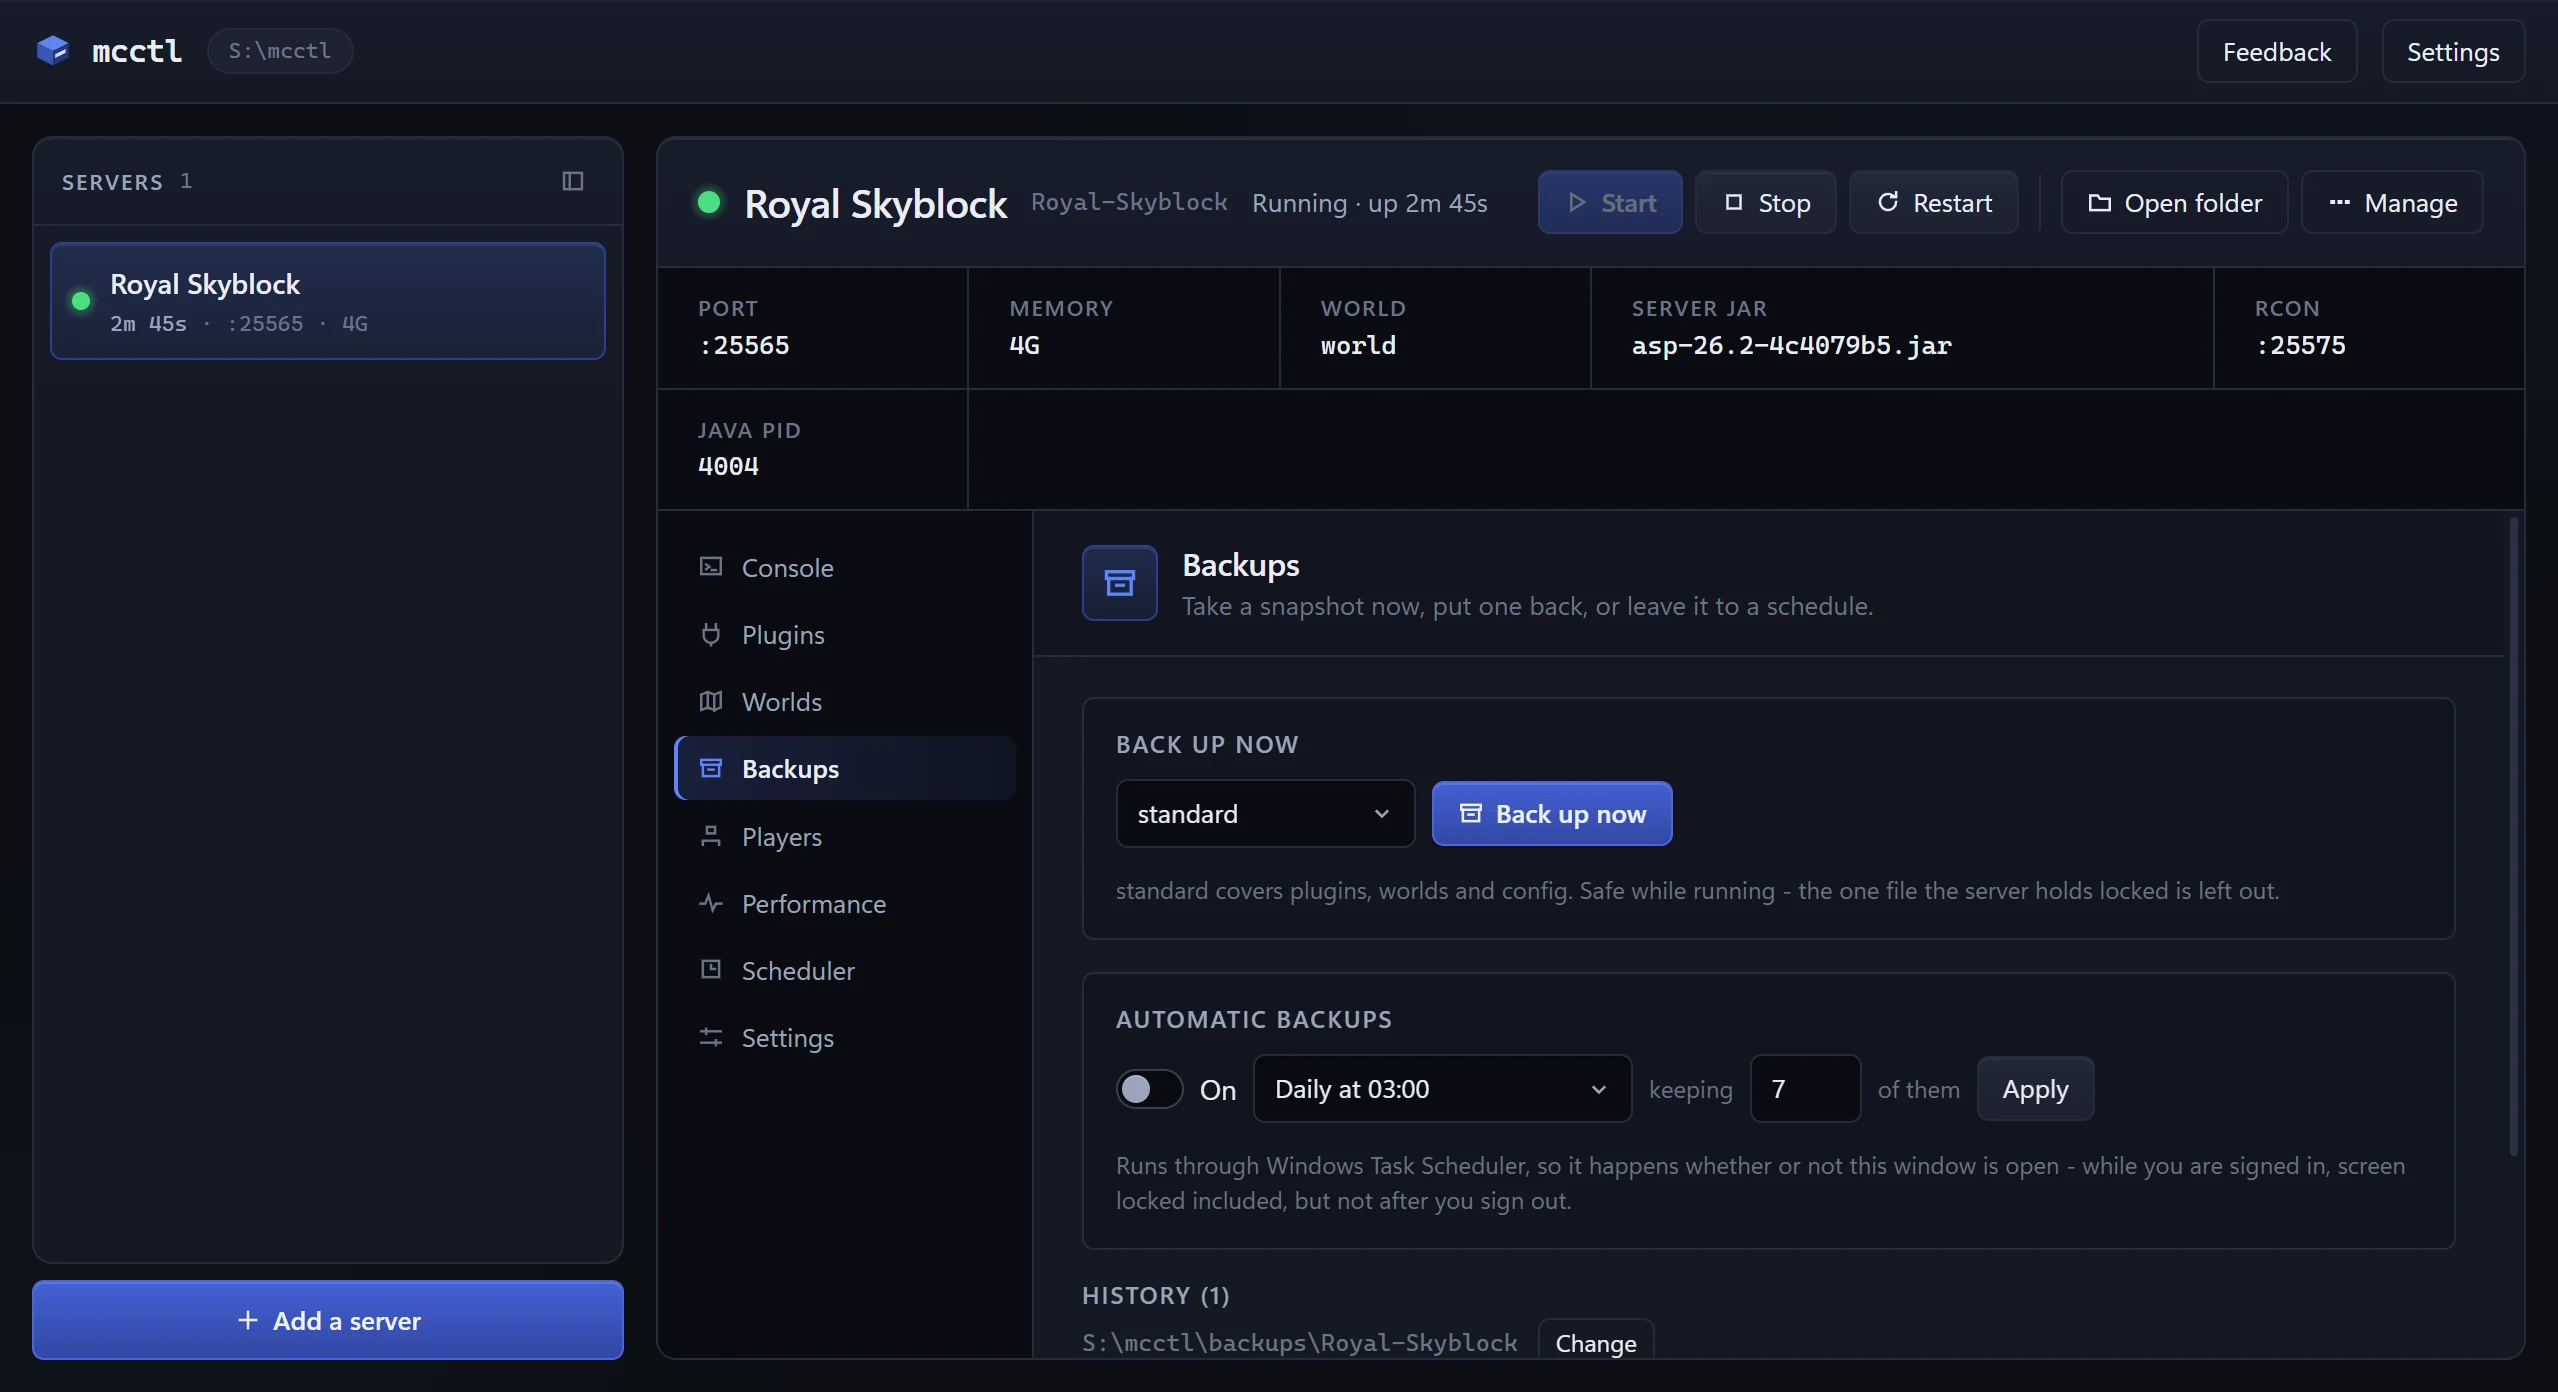
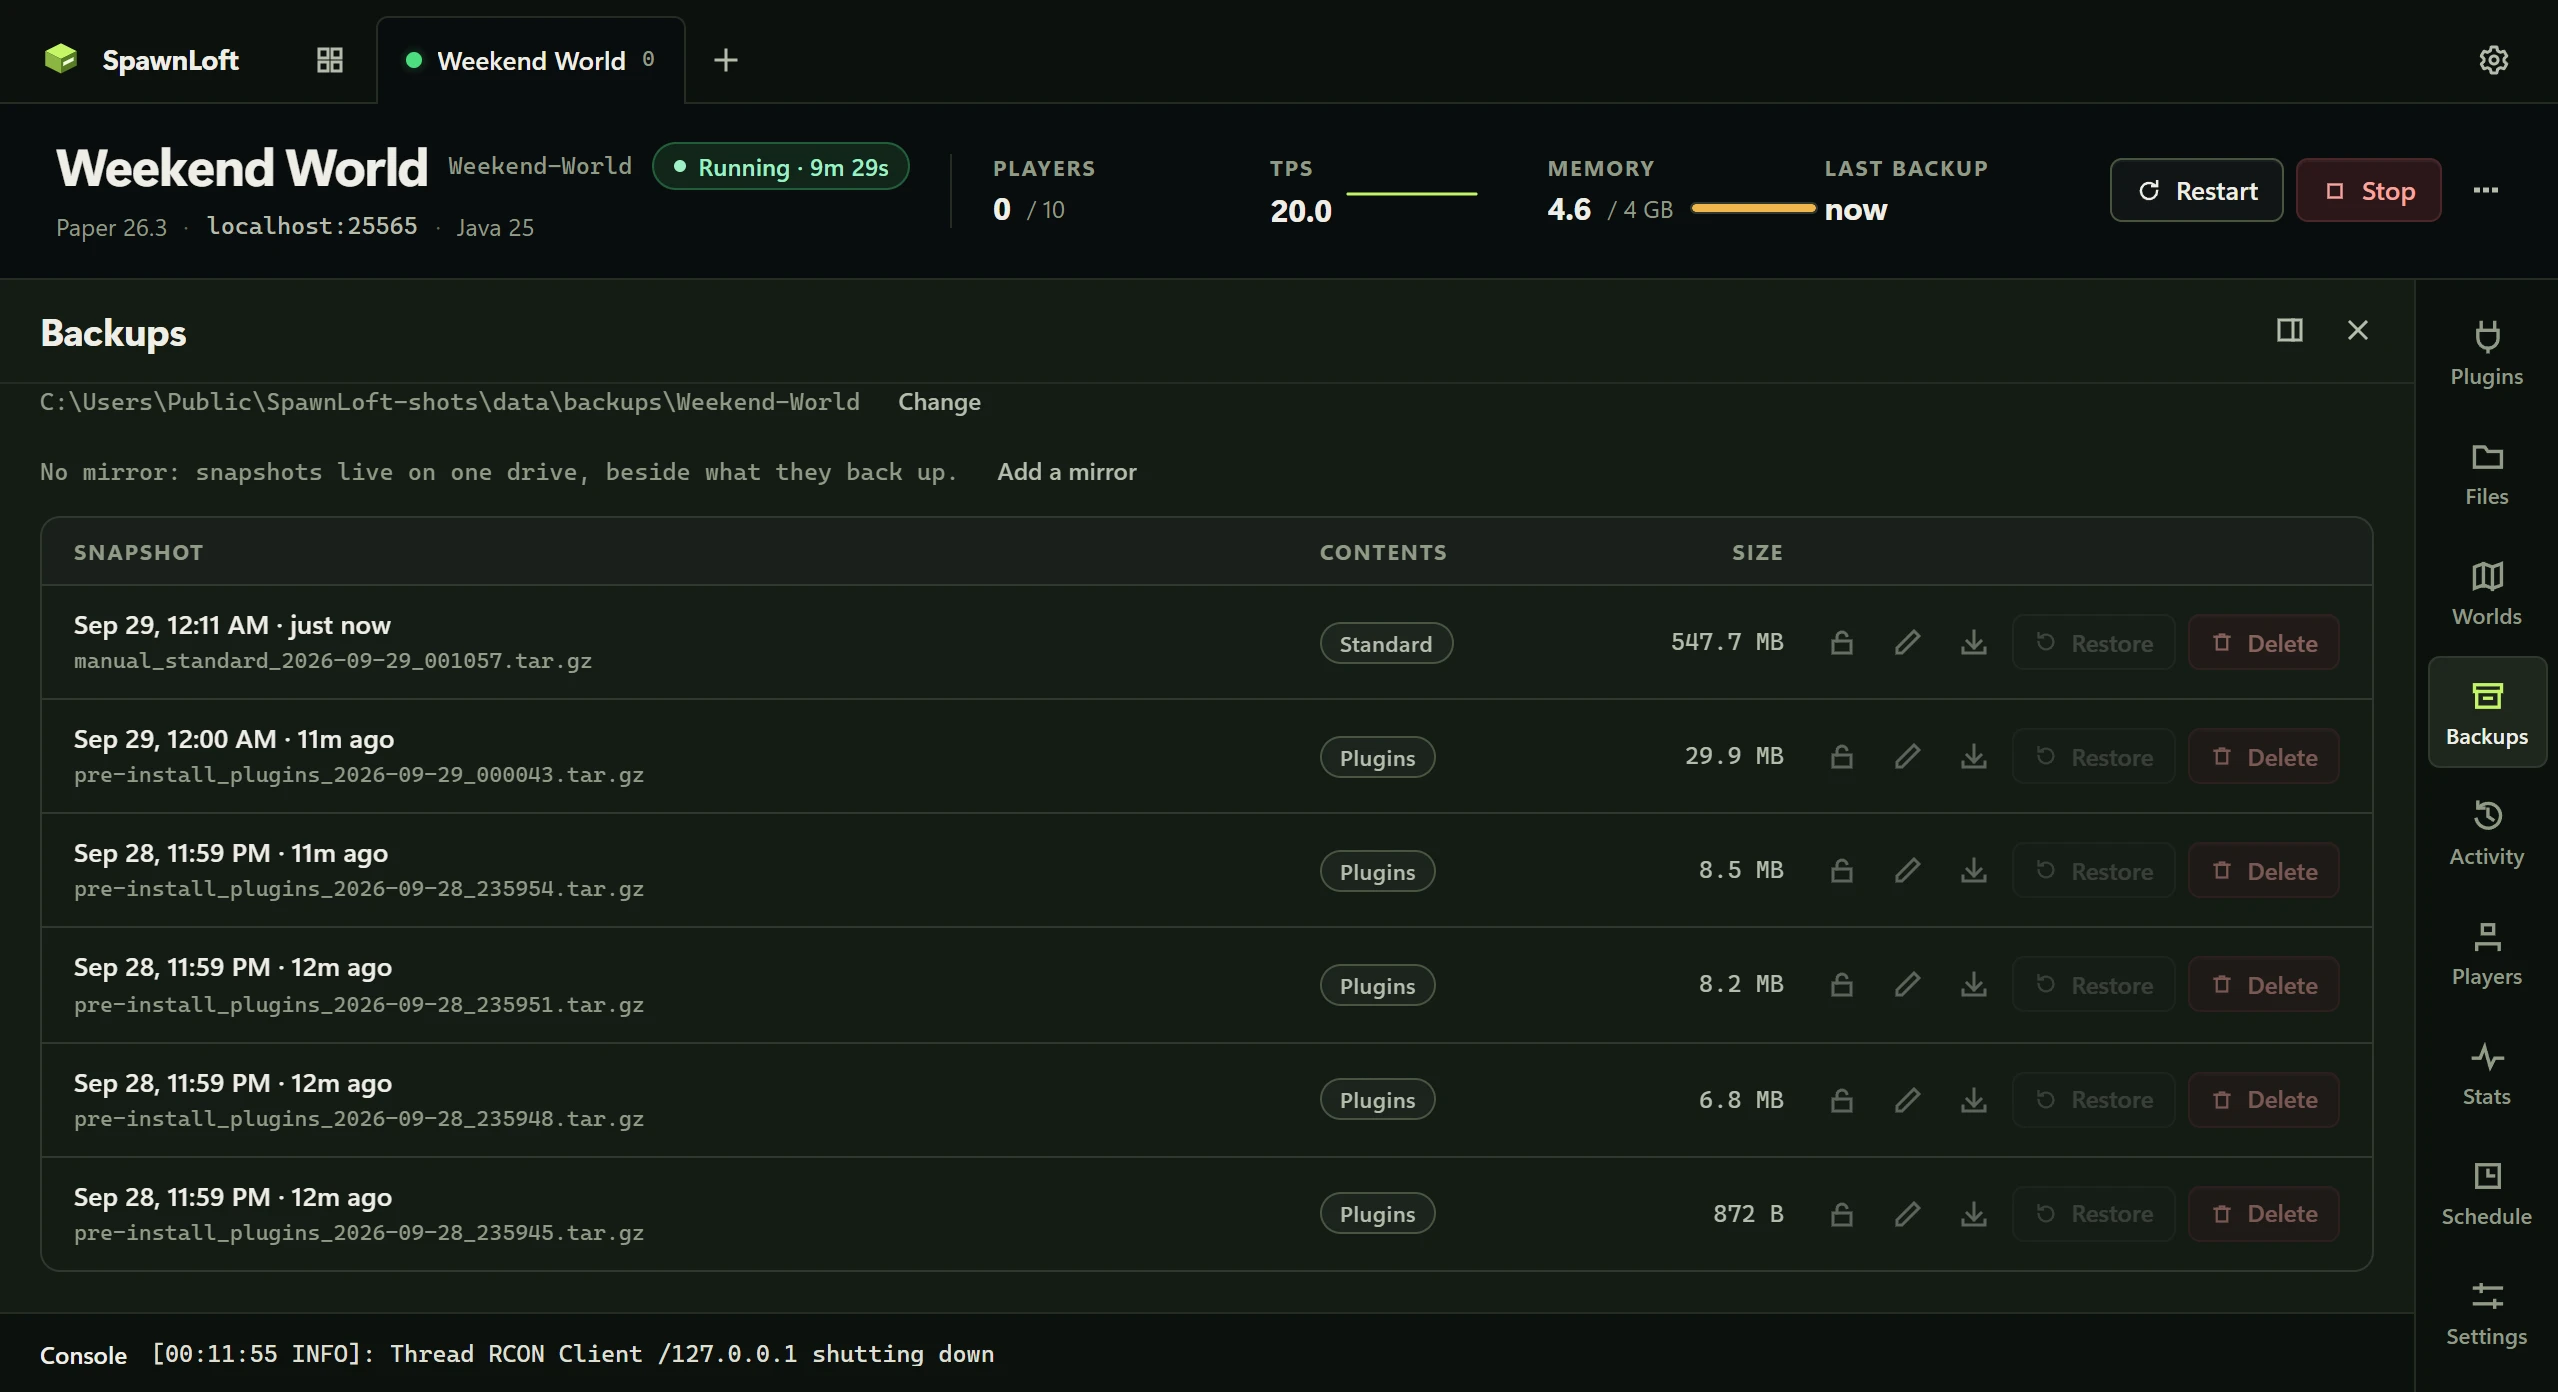
fix: retake the landing-page panel screenshots from the current app (#14)
The four product-tour screenshots are now the current SpawnLoft panel, at the same size and file names. Removes the ten old-layout PNGs and adds tools/screenshots to retake them.

diff --git a/tools/screenshots/README.md b/tools/screenshots/README.md
@@ -1,0 +1,56 @@
+# The landing-page panel screenshots
+
+`public/img/tabs/console.webp`, `plugins.webp`, `backups.webp` and `performance.webp` are the four
+captures in the "Meet your new control room" section, taken from the real SpawnLoft panel at
+2558x1392 (a 1279x696 window at 2x, the size `ProductExplorer.vue` expects). Re-take them when the
+panel's look changes.
+
+Nothing here needs a package install. It needs Node 22, a Chromium (Chrome preferred), and a
+checkout of the SpawnLoft app to run the panel from.
+
+1. Make a throwaway data root, with a neutral path (the backups screen shows it, and your username
+   is in the default), and the SpawnLoft theme:
+
+   ```bash
+   R=C:/Users/Public/SpawnLoft-shots     # anywhere without your name in it
+   mkdir -p $R/appdata/mcctl $R/local $R/data && echo '{"theme":"spawnloft"}' > $R/appdata/mcctl/settings.json
+   export APPDATA=$R/appdata LOCALAPPDATA=$R/local MCCTL_DATA_ROOT=$R/data XDG_CONFIG_HOME=$R/appdata
+   ```
+
+2. From the SpawnLoft checkout, create and start a server, then start the panel:
+
+   ```bash
+   node mcctl.mjs new Weekend-World --paper 26.3 --memory 4G --accept-eula
+   node mcctl.mjs set Weekend-World "label=Weekend World"
+   node mcctl.mjs start Weekend-World
+   node mcctl.mjs ui --port 8790 --no-open
+   ```
+
+3. From this repo, install four plugins through the panel, restart the server so they load, and
+   check the console is clean (`node mcctl.mjs logs Weekend-World -n 400 --grep " ERROR\]| WARN\]"`):
+
+   ```bash
+   SHOTS_OUT=$R/out node tools/screenshots/capture.mjs prepare
+   node mcctl.mjs restart Weekend-World
+   ```
+
+4. Let the server run a few minutes so the performance chart has samples, then:
+
+   ```bash
+   SHOTS_OUT=$R/out node tools/screenshots/capture.mjs shoot
+   ```
+
+   Copy the four `.webp` files from `$R/out` into `public/img/tabs/`.
+
+Things that went wrong once, so you do not have to find out:
+
+- **Do not enable automatic backups in the panel.** It registers a task in the operating system's
+  scheduler, which is global, not part of the throwaway data root.
+- **A plugin that does not support the server's Minecraft version prints a red ERROR at start-up**
+  (EssentialsX did on 26.3). Pick plugins that load quietly; the script installs `WorldEdit`,
+  `LuckPerms`, `Chunky` and `PlaceholderAPI` by default, so set `SHOTS_PLUGINS` to change that.
+- **On Windows, Paper can log a long OSHI error at start-up** if the machine's performance-counter
+  registry is broken. Add `-Doshi.os.windows.hkeyperfdata=false` to the server's `jvmFlags` in the
+  throwaway `instances.json` (after the default flags) to avoid it.
+- The panel remembers which tool is open, and clicking an open tool's tab closes it. The script
+  only clicks a tab when its tool is not already showing.

diff --git a/README.md b/README.md
@@ -19,6 +19,7 @@ npm run build    # .vitepress/dist
 - `ProductExplorer.vue` is the keyboard-accessible four-tab product tour. `WorldScene.vue` renders and animates the custom Blender world.
 - `art/spawnloft-world.blend` is the current editable world. See [art/WORLD.md](art/WORLD.md) for rebuilding and exporting it.
 - `ProofStrip.vue` shows figures read from GitHub at build time by `proof.data.ts` (a snapshot is used if the API is unreachable; `GITHUB_TOKEN` is optional). Stars and downloads only appear once they pass a floor set in the component. The numbers refresh on each deploy.
+- `public/img/tabs/*.webp` are the four panel screenshots in the product tour, taken from the real panel by `tools/screenshots/`; see its README to retake them when the panel changes.
 - `DemoVideo.vue` plays the recording in `public/demo/`, with its steps from `demo.json`. `tools/demo/` records and encodes it from the real app; see its README.
 - `public/social/` holds one 1200x630 social card per docs page, drawn by `tools/social-cards/build.mjs` from each page's title and description and committed (Vercel's build has no Chromium). Re-run `node tools/social-cards/build.mjs` when a title or description changes; a page with no card falls back to `public/brand/social-card.png`.
 - `BrandIcon.vue`, `public/brand/`, and `public/favicon.svg` contain the custom visual identity.
